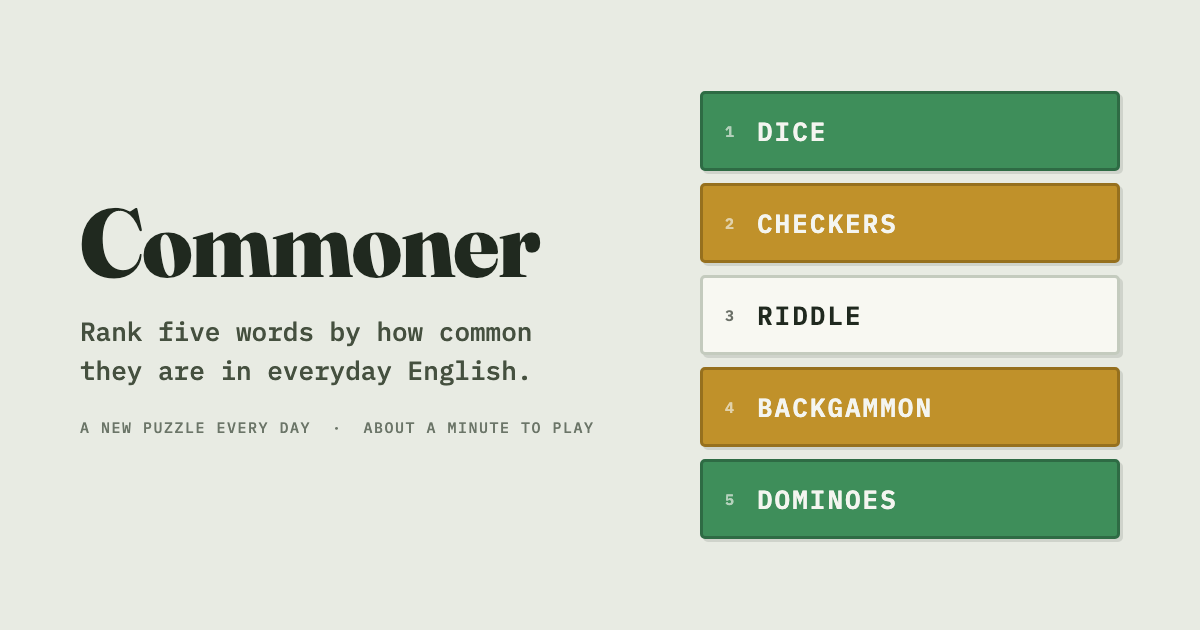
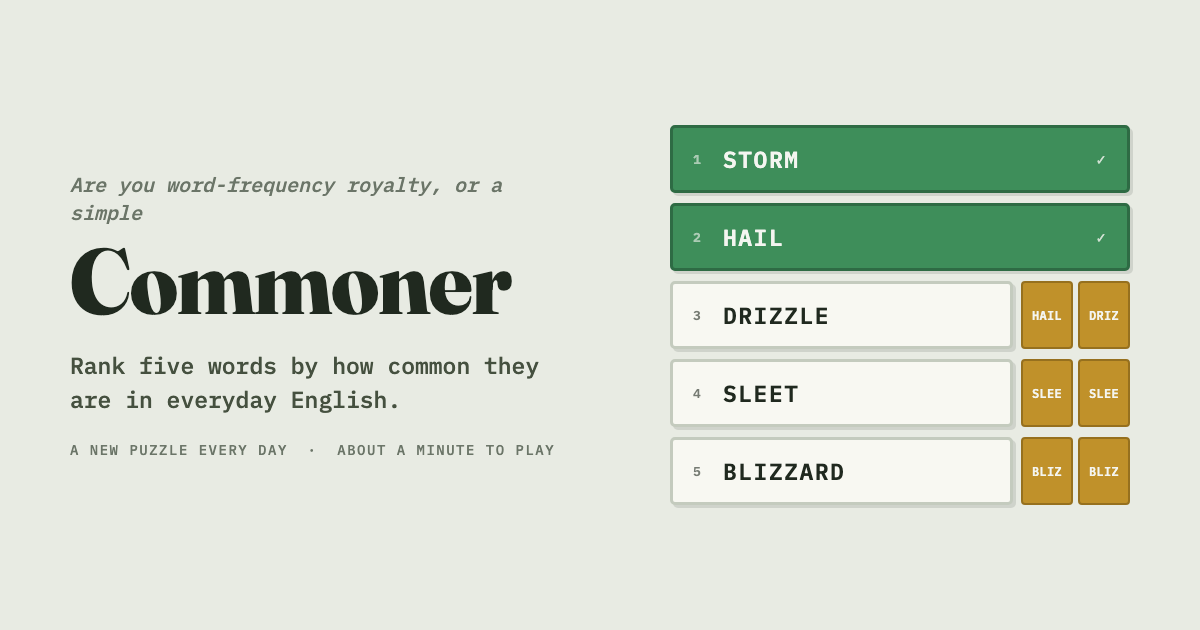
redesign mechanics

Changed region(s): [[0.555, 0.1206, 0.9558, 0.8746], [0.0617, 0.2714, 0.4625, 0.5429], [0.0617, 0.573, 0.4933, 0.7238]]

diff --git a/index.html b/index.html
@@ -44,14 +44,20 @@
   ── THE GAME ────────────────────────────────────────────────────────────────
   One puzzle per day. Player is shown 5 words in a scrambled order and must
   rank them from MOST to LEAST commonly used in everyday English, in at most
-  4 guesses. After each guess, each card is colored by positional distance
-  from its true rank:
-      GREEN  = exactly right spot (locks)
-      YELLOW = wrong spot (any distance, one away or more)
-      WHITE  = neutral/untouched — this word hasn't been judged in this rank
-               yet (never guessed there, or moved since its last verdict)
+  3 guesses. Each rank slot is scored independently and PERMANENTLY once
+  solved (see v13 — this replaced a per-guess "positional distance" model):
+      GREEN  = this rank is solved. The draggable tile locks here forever
+               and expands to fill the row.
+      YELLOW = NEVER appears on the draggable tile itself. It only shows
+               up in a small non-moving "record" strip to the right of an
+               unsolved rank — one chip per past guess that was wrong here.
+      WHITE  = the draggable tile's only other state: not solved yet. It
+               is never colored by a guess the way it used to be — moving
+               it around never changes anything about what it displays.
   Win = all green. Share artifact is a Wordle-style emoji grid (one row per
-  guess): e.g.  "Commoner #14 — 3/4" + rows of squares emoji + URL.
+  guess): e.g.  "Commoner #14 — 3/4" + rows of squares emoji + URL — the
+  underlying per-position green/yellow scoring that builds this grid is
+  unchanged by v13; only how it's DISPLAYED live on the board changed.
   The theme of each word set exists in data but is NOT shown (blind guess 1).
 
   ── DESIGN HISTORY / WHY IT IS THE WAY IT IS (hard-won, don't regress) ──────
@@ -170,7 +176,7 @@
     saved games store word INDICES (see commoner.state), so editing an
     already-live set would corrupt in-progress/finished boards for anyone
     who played it; only ever edit a set before its date is reached.
-  * v12 (CURRENT, second rebrand — WordRank → Commoner): renamed the game,
+  * v12 (second rebrand — WordRank → Commoner): renamed the game,
     NOT the game's mechanics/data/analytics. In scope: page title, header
     wordmark (CONFIG.GAME_NAME), meta/OG/Twitter tags + og-image.png
     (regenerated with the new wordmark), share text, HowToPlay copy,
@@ -189,9 +195,42 @@
     word-rank/ never had real players on it, so its redirect skips
     mentioning the brief WordRank era and goes straight "WordRank →
     Commoner," same shape as the original parlance/ -> word-rank/ stub.
-  * Feedback color persistence rule: a card wears its verdict color ONLY
-    while it remains in the position it was judged in; moving it reverts it
-    to neutral (verdicts are about positions, not words). Self-teaching.
+  * v13 (CURRENT, board mechanic redesign — real playtest feedback): the
+    OLD "feedback color persistence rule" below (kept for history, but no
+    longer how the game behaves) had a tile wear its verdict color ONLY
+    while it sat in the exact spot it was judged in — drag it away and the
+    color silently reverted to neutral. Reported confusion: the color
+    LOOKED like it belonged to the tile, so it flickering on/off during
+    ordinary rearranging read as broken, not as "the verdict is about the
+    rank, not the tile" (which was the intent). Fix: split every rank row
+    into two zones. LEFT = the draggable tile, which is now ALWAYS neutral
+    (white) until that rank is solved — never yellow, ever, no matter what
+    you drag into it. RIGHT = a small per-rank "record" strip that does
+    NOT move: one small yellow chip per past guess that was wrong at this
+    rank, holding the (truncated) word that was there, oldest → newest,
+    left → right. Chips are assigned FIXED columns by guess index (guess 1
+    always the leftmost chip, guess 2 next, etc.) and NEVER reshuffle as
+    new ones append — deliberately, so that scanning the same horizontal
+    slot down every still-open row reconstructs one entire past guess,
+    top to bottom. (A stacked/vertical layout was considered and rejected
+    for exactly this reason — it breaks that cross-row read.) The moment a
+    rank goes green, its tile locks AND expands to fill the whole row,
+    discarding that row's chip history — "overwriting" it, since a solved
+    rank has nothing left to compare. This fully replaces the OLD
+    below-the-board "RECORD" block (a separate grid of full past
+    arrangements) rather than duplicating the same information twice; the
+    per-rank strips carry strictly more at-a-glance value in less space.
+    Freed-up room, plus MAX_GUESSES 4→3 (also this pass, same reasoning:
+    more real estate, and a tighter guess budget matches the new
+    at-a-glance record making deduction faster), is what makes the inline
+    record strips fit without pushing the board below the fold — see the
+    v6 mobile-fit note; the same "verify on a real small viewport, don't
+    eyeball a desktop window" rule applies to this layout too.
+  * SUPERSEDED BY v13 — kept for history, not current behavior: a card
+    used to wear its verdict color ONLY while it remained in the position
+    it was judged in; moving it reverted it to neutral (verdicts were
+    about positions, not words). Self-teaching in theory; confusing during
+    ordinary reordering in practice — see v13.
   * v3.1 (playtest, day 1): rules were a one-time intro line that vanished
     on first interaction — a real player forgot gold-vs-red mid-game and
     resubmitted their guess-1 arrangement as guess 4 (X/4). Rules + color
@@ -242,6 +281,18 @@
   number is real — ordinary polysemy that doesn't change the obvious
   meaning is fine too. Verify every set against wordfreq before shipping
   it; the corpus is the referee, even when it contradicts intuition.
+  Since v13, ALSO check every set's record-chip truncation (see
+  `word.slice(0, 4)` in the board render): no two words in the SAME set
+  may share the same first-4-letter prefix, or their yellow chips become
+  indistinguishable (a false "collision" — the board would look like it's
+  showing the same word twice). Checked by hand across all 30 current sets
+  (2026-07-19, post-v13) — zero exact 4-letter collisions and zero
+  first-3-letter near-collisions anywhere in the bank, and every word from
+  the 3-letter shortest (OWL) to the 14-letter longest (PALEONTOLOGIST)
+  renders cleanly in the fixed-width chip. This is NOT enforced by code —
+  it's a hand-verification step, so re-run it (or write a quick script:
+  group each set's words by their first 4 letters, flag any group with
+  >1 word) whenever new sets are added.
 
   ── ROADMAP / OPEN THREADS ──────────────────────────────────────────────────
   * PUZZLES has 30 verified sets (see v9) — the list repeats starting
@@ -351,7 +402,7 @@ const { useState, useMemo, useRef, useEffect } = React;
 /* ================= CONFIG — the tuning knobs ================= */
 const CONFIG = {
   GAME_NAME: "Commoner",
-  MAX_GUESSES: 4,
+  MAX_GUESSES: 3,
   SHOW_THEME: false,          // blind guess 1 (themes exist in data)
   EPOCH: "2026-07-15",        // day of puzzle #1 (local midnight boundary)
   SHARE_URL: "https://timd73.github.io/commoner/",
@@ -734,14 +785,19 @@ function Commoner() {
   const [drag, setDrag] = useState(null); // {from, startY, delta, moved}
 
   const done = status !== "playing";
-  const lastGuess = guesses[guesses.length - 1];
 
-  // A tile wears its verdict only while it still sits in the judged position.
-  const tileVerdict = (pos) => {
-    if (!lastGuess) return null;
-    if (lastGuess.order[pos] !== order[pos]) return null;
-    return lastGuess.colors[pos];
-  };
+  /* ---------- v13: solved-forever positions, not "last guess" verdicts ----------
+     A rank is SOLVED once ANY past guess landed green there — permanent,
+     not tied to the tile's current position. This replaces the old
+     tileVerdict() model, which colored a tile yellow/green only while it
+     sat in the exact spot it was judged in, and silently reverted to
+     neutral the moment you dragged it away. That looked like a bug: the
+     verdict is a fact about the RANK, not the tile, so it shouldn't
+     flicker based on what you do with the tile afterward. Now the
+     draggable tile is ALWAYS neutral until solved (green, permanently) —
+     see the board render below for where the wrong-guess history actually
+     lives instead (a small per-rank record strip that never moves). */
+  const solvedAt = (pos) => guesses.some((g) => g.colors[pos] === "green");
 
   /* ---------- green locks (playtest v3.2) ----------
      Green = confirmed correct position, so green cards are PINNED: they
@@ -749,7 +805,7 @@ function Commoner() {
      them. A tester moved a green card (the interaction allowed it), saw it
      lose its green, and reasonably concluded the game was broken. If the
      feedback is a fact, the board should enforce it. */
-  const isLocked = (pos) => tileVerdict(pos) === "green";
+  const isLocked = (pos) => solvedAt(pos);
   const unlockedPositions = order.map((_, p) => p).filter((p) => !isLocked(p));
 
   // Reorder ONLY the unlocked cards: dragged card leaves its slot, is
@@ -946,7 +1002,12 @@ function Commoner() {
         {/* header — kept compact on purpose: header + key + 5 tiles + submit
             must all fit above the fold on a small phone (see v6 note) */}
         <header style={{ textAlign: "center", padding: "12px 0 6px", borderBottom: "2px solid " + C.ink }}>
-          <div style={{ fontFamily: "'Fraunces', Georgia, serif", fontWeight: 800, fontSize: 28, letterSpacing: "-0.5px", lineHeight: 1 }}>
+          {/* the pun the whole rebrand is named for: "commoner" as in
+              common WORDS, but read first as the opposite of royalty */}
+          <div style={{ fontSize: 12, color: C.faint, fontStyle: "italic", lineHeight: 1.3, padding: "0 20px" }}>
+            Are you word-frequency royalty, or a simple
+          </div>
+          <div style={{ fontFamily: "'Fraunces', Georgia, serif", fontWeight: 800, fontSize: 28, letterSpacing: "-0.5px", lineHeight: 1.1 }}>
             {CONFIG.GAME_NAME}
           </div>
           <div style={{ display: "flex", justifyContent: "center", gap: 14, marginTop: 4, fontSize: 10.5, color: C.faint, letterSpacing: "1.5px" }}>
@@ -966,9 +1027,9 @@ function Commoner() {
             need this while looking at the board, not after scrolling past
             it (real feedback — see v6 note in the header comment). */}
         <div style={{ display: "flex", flexWrap: "wrap", justifyContent: "center", gap: "3px 12px", margin: "8px 0 2px", fontSize: 10.5, color: C.faint }}>
-          <span><span style={{ ...swatch, background: C.green }} />exact</span>
-          <span><span style={{ ...swatch, background: C.yellow }} />wrong spot</span>
-          <span><span style={{ ...swatch, background: C.card, border: "1.5px solid " + C.line }} />unguessed</span>
+          <span><span style={{ ...swatch, background: C.green }} />locked in</span>
+          <span><span style={{ ...swatch, background: C.yellow }} />tried here, wrong</span>
+          <span><span style={{ ...swatch, background: C.card, border: "1.5px solid " + C.line }} />not solved yet</span>
         </div>
 
         {/* board */}
@@ -977,50 +1038,73 @@ function Commoner() {
           <div ref={listRef} style={{ display: "flex", flexDirection: "column", gap: 6, margin: "5px 0" }}>
             {order.map((wordIdx, pos) => {
               const isSel = selected === pos;
-              const verdict = tileVerdict(pos);
               const locked = isLocked(pos);
               const isDragged = drag && drag.moved && drag.from === pos;
-              const v = verdict ? VERDICT[verdict] : null;
-              const bg = v ? v.bg : C.card;
-              const fg = verdict ? "#F4F5F0" : C.ink;
-              const numFg = verdict ? "rgba(244,245,240,.6)" : C.faint;
-              const border = v ? v.border : isSel ? C.ink : C.line;
+              // Record strip (v13): one small chip per PAST guess, oldest
+              // left → newest right, fixed to this RANK's column — not the
+              // tile's. Never rendered once solved (locked tile takes the
+              // whole row instead — "overwriting" the history, since it's
+              // moot). Chips stay in FIXED guess-index columns (never
+              // reshuffle as new ones append) specifically so scanning the
+              // same horizontal slot across every still-open row lets you
+              // read one whole past guess top-to-bottom.
+              const chips = locked ? [] : guesses.map((g) => puzzle.words[g.order[pos]].w);
               return (
-                <button
-                  key={puzzle.words[wordIdx].w}
-                  onPointerDown={(e) => onPointerDown(e, pos)}
-                  onPointerMove={onPointerMove}
-                  onPointerUp={onPointerUp}
-                  onPointerCancel={() => setDrag(null)}
-                  disabled={done}
-                  style={{
-                    display: "flex", alignItems: "center", gap: 12,
-                    background: bg, color: fg,
-                    border: "2px solid " + border,
-                    boxShadow: isDragged ? "4px 6px 0 rgba(32,41,31,0.3)" : isSel ? "3px 3px 0 " + C.ink : "2px 2px 0 rgba(32,41,31,0.12)",
-                    transform: isDragged
-                      ? "translateY(" + drag.delta + "px) scale(1.02)"
-                      : "translateY(" + tileShift(pos) + "px)" + (isSel ? " translate(-2px,-2px)" : ""),
-                    transition: isDragged ? "none" : "transform .15s, background .2s, border-color .2s, box-shadow .12s",
-                    zIndex: isDragged ? 10 : 1,
-                    position: "relative",
-                    touchAction: "none",
-                    userSelect: "none", WebkitUserSelect: "none",
-                    padding: "11px 14px", borderRadius: 3,
-                    fontFamily: "inherit", fontSize: 16, fontWeight: 600,
-                    letterSpacing: "1.5px", textAlign: "left",
-                    cursor: locked ? "default" : "pointer",
-                    opacity: done && !verdict ? 0.95 : 1,
-                  }}
-                >
-                  <span style={{ fontSize: 11, color: numFg, minWidth: 14 }}>{pos + 1}</span>
-                  <span style={{ flex: 1 }}>{puzzle.words[wordIdx].w}</span>
-                  {!done && (
-                    <span style={{ fontSize: locked ? 10 : 12, letterSpacing: locked ? "1px" : "normal", color: isSel ? C.ink : verdict ? "rgba(244,245,240,.75)" : C.line }}>
-                      {locked ? "✓" : isSel ? "TAP ANOTHER TO SWAP" : "⠿"}
-                    </span>
+                <div key={puzzle.words[wordIdx].w} style={{ display: "flex", gap: 5, alignItems: "stretch" }}>
+                  <button
+                    onPointerDown={(e) => onPointerDown(e, pos)}
+                    onPointerMove={onPointerMove}
+                    onPointerUp={onPointerUp}
+                    onPointerCancel={() => setDrag(null)}
+                    disabled={done}
+                    style={{
+                      display: "flex", alignItems: "center", gap: 12,
+                      flex: 1, minWidth: 0,
+                      background: locked ? C.green : C.card,
+                      color: locked ? "#F4F5F0" : C.ink,
+                      border: "2px solid " + (locked ? "#2E6B44" : (isSel ? C.ink : C.line)),
+                      boxShadow: isDragged ? "4px 6px 0 rgba(32,41,31,0.3)" : isSel ? "3px 3px 0 " + C.ink : "2px 2px 0 rgba(32,41,31,0.12)",
+                      transform: isDragged
+                        ? "translateY(" + drag.delta + "px) scale(1.02)"
+                        : "translateY(" + tileShift(pos) + "px)" + (isSel ? " translate(-2px,-2px)" : ""),
+                      transition: isDragged ? "none" : "transform .15s, background .2s, border-color .2s, box-shadow .12s",
+                      zIndex: isDragged ? 10 : 1,
+                      position: "relative",
+                      touchAction: "none",
+                      userSelect: "none", WebkitUserSelect: "none",
+                      padding: "11px 14px", borderRadius: 3,
+                      fontFamily: "inherit", fontSize: 16, fontWeight: 600,
+                      letterSpacing: "1.5px", textAlign: "left",
+                      cursor: locked ? "default" : "pointer",
+                      opacity: done && !locked ? 0.95 : 1,
+                    }}
+                  >
+                    <span style={{ fontSize: 11, color: locked ? "rgba(244,245,240,.6)" : C.faint, minWidth: 14 }}>{pos + 1}</span>
+                    <span style={{ flex: 1, minWidth: 0, overflow: "hidden", textOverflow: "ellipsis", whiteSpace: "nowrap" }}>{puzzle.words[wordIdx].w}</span>
+                    {!done && (
+                      <span style={{ fontSize: locked ? 10 : 12, letterSpacing: locked ? "1px" : "normal", color: isSel ? C.ink : locked ? "rgba(244,245,240,.75)" : C.line, flexShrink: 0 }}>
+                        {locked ? "✓" : isSel ? "TAP ANOTHER TO SWAP" : "⠿"}
+                      </span>
+                    )}
+                  </button>
+                  {chips.length > 0 && (
+                    <div style={{ display: "flex", gap: 3, flexShrink: 0 }}>
+                      {chips.map((word, gi) => (
+                        <div key={gi} style={{
+                          width: 36, flexShrink: 0, borderRadius: 3,
+                          background: C.yellow, color: "#F4F5F0",
+                          border: "1.5px solid #96701E",
+                          display: "flex", alignItems: "center", justifyContent: "center",
+                          fontSize: 8.5, fontWeight: 600, letterSpacing: "0.2px",
+                          overflow: "hidden", whiteSpace: "nowrap",
+                          animation: "pop .18s ease-out",
+                        }}>
+                          {word.length > 4 ? word.slice(0, 4) : word}
+                        </div>
+                      ))}
+                    </div>
                   )}
-                </button>
+                </div>
               );
             })}
           </div>
@@ -1043,30 +1127,6 @@ function Commoner() {
           </button>
         )}
 
-        {/* guess record — shows arrangements, not just colors, to enable deduction */}
-        {guesses.length > 0 && (
-          <div style={{ marginTop: 14 }}>
-            <div style={{ fontSize: 10, letterSpacing: "2px", color: C.faint, marginBottom: 6 }}>RECORD</div>
-            {guesses.map((g, gi) => (
-              <div key={gi} style={{ display: "flex", alignItems: "center", gap: 5, marginBottom: 4 }}>
-                <span style={{ fontSize: 10, color: C.faint, width: 12 }}>{gi + 1}</span>
-                {g.colors.map((c, i) => (
-                  <div key={i} style={{
-                    flex: 1, height: 24, background: VERDICT[c].bg, borderRadius: 2,
-                    display: "flex", alignItems: "center", justifyContent: "center",
-                    color: "rgba(248,248,242,.92)", fontSize: 9, fontWeight: 600,
-                    letterSpacing: "0.5px", overflow: "hidden", whiteSpace: "nowrap",
-                    animation: "pop .18s ease-out",
-                  }}>
-                    {puzzle.words[g.order[i]].w.length > 7
-                      ? puzzle.words[g.order[i]].w.slice(0, 6) + "…"
-                      : puzzle.words[g.order[i]].w}
-                  </div>
-                ))}
-              </div>
-            ))}
-          </div>
-        )}
 
         <footer style={{ textAlign: "center", fontSize: 9, color: C.faint, letterSpacing: "1px", marginTop: 20 }}>
           <div>FREQUENCY DATA: VERIFIED VIA WORDFREQ (ENGLISH CORPUS)</div>
@@ -1177,13 +1237,14 @@ function HowToPlay({ onClose, maxGuesses }) {
 
         <HowStep n="1">Rank 5 words from <b>most</b> to <b>least</b> commonly used in everyday English.</HowStep>
         <HowStep n="2">Drag a card to reorder it, or tap two cards to swap them.</HowStep>
-        <HowStep n="3">Submit your order — each card is scored by how close it lands to its true rank.</HowStep>
-        <HowStep n="4">You get {maxGuesses} tries. All green means solved.</HowStep>
+        <HowStep n="3">Submit your order. A correct rank <b>locks green</b>, permanently.</HowStep>
+        <HowStep n="4">Wrong guesses show up as small yellow tiles next to that rank — they stay put even as you keep rearranging, so you can compare guesses side by side.</HowStep>
+        <HowStep n="5">You get {maxGuesses} tries. All green means solved.</HowStep>
 
         <div style={{ marginTop: 16, paddingTop: 16, borderTop: "1px solid " + C.line, fontSize: 12.5, lineHeight: 2 }}>
-          <div><span style={{ ...swatch, background: C.green }} /><b>green</b> — right spot, locks in place</div>
-          <div><span style={{ ...swatch, background: C.yellow }} /><b>yellow</b> — wrong spot</div>
-          <div><span style={{ ...swatch, background: C.card, border: "1.5px solid " + C.line }} /><b>white</b> — not guessed in this rank yet</div>
+          <div><span style={{ ...swatch, background: C.green }} /><b>green</b> — correct rank, locked in</div>
+          <div><span style={{ ...swatch, background: C.yellow }} /><b>yellow</b> — a past guess that was wrong here</div>
+          <div><span style={{ ...swatch, background: C.card, border: "1.5px solid " + C.line }} /><b>white</b> — this rank isn't solved yet</div>
         </div>
 
         <button onClick={onClose} style={{
